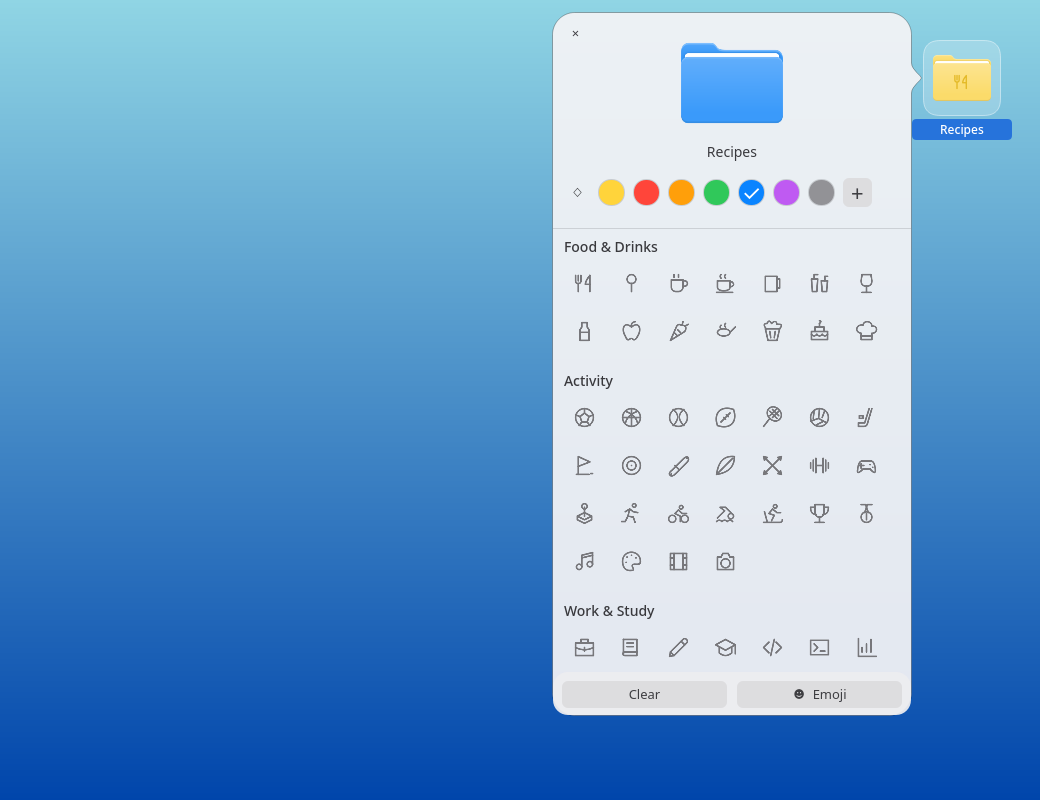
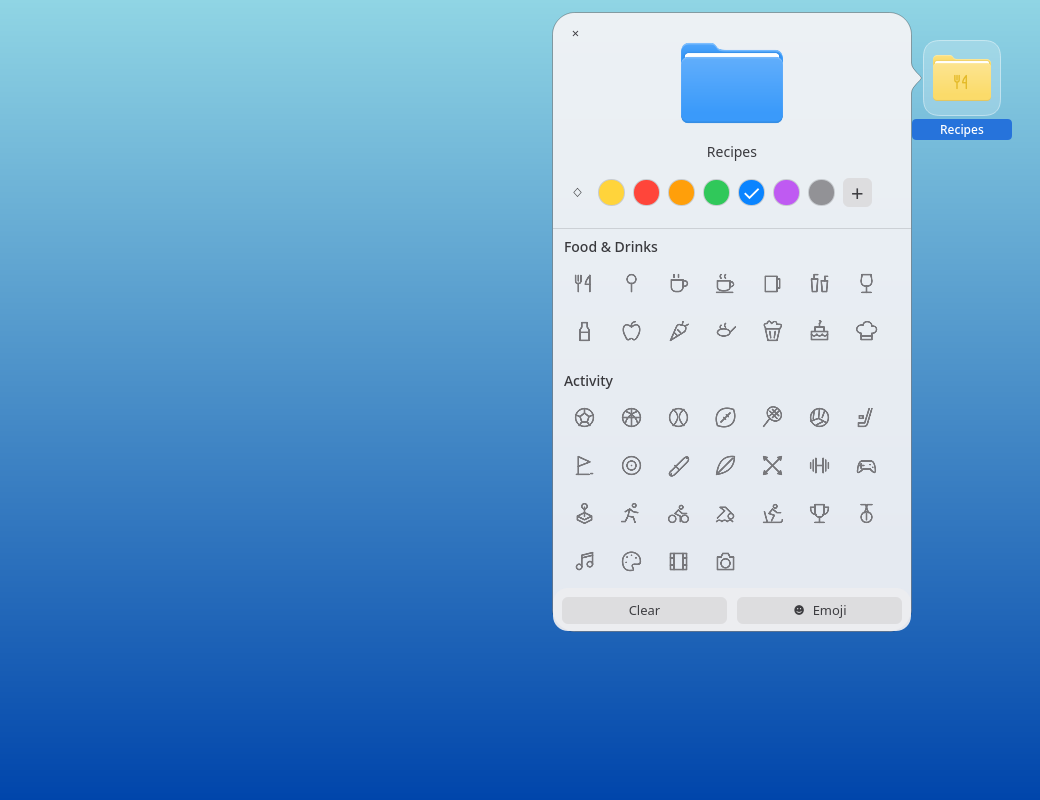
Shorten folder customization panel and keep its footer above the Dock

Changed region(s): [[0.5231, 0.75, 0.8923, 0.9062]]

diff --git a/config/quickshell/MacShell/DesktopSurface.qml b/config/quickshell/MacShell/DesktopSurface.qml
@@ -21,8 +21,11 @@ FocusScope {
     property var originalSelection: []
     property string customizePath: ""
     property rect customizeAnchor: Qt.rect(0, 0, 64, 64)
+    // Match the desktop widget grid's 100px clearance above the Dock.
+    readonly property real customizeAvailableHeight: Math.max(0, height - 100)
+    readonly property real customizeHeight: Math.min(620, customizeAvailableHeight - 24)
     readonly property var customizePlacement: FolderPlacement.beside(customizeAnchor,
-        width, height, 360, Math.min(704, height - 24))
+        width, customizeAvailableHeight, 360, customizeHeight)
 
     function selectedFolder() {
         if (desktop.selected.length !== 1) return null;
@@ -65,14 +68,12 @@ FocusScope {
     }
     function openWidgetMenu(id, x, y) {
         widgetTarget = id;
-        var canXL = widgets.supportsXL(widgets.typeOf(id));
         showMenu([
             { label: "Edit Widgets…", action: "widgets" },
             { separator: true },
             { label: "Small", action: "small" },
             { label: "Medium", action: "medium" },
             { label: "Large", action: "large" },
-            { label: "Extra Large", action: "xl", enabled: canXL },
             { separator: true },
             { label: "Remove Widget", action: "removeWidget" }
         ], x, y);
@@ -211,7 +212,7 @@ FocusScope {
             else if (action === "customize") surface.customizeFolder();
             else if (action.indexOf("folderColor:") === 0 && surface.selectedFolder()) surface.desktop.send({ action: "customize", name: surface.selectedFolder().name, color: action.slice(12) });
             else if (action === "removeWidget") surface.widgets.removeWidget(surface.widgetTarget);
-            else if (action === "small" || action === "medium" || action === "large" || action === "xl") surface.widgets.setSize(surface.widgetTarget, action);
+            else if (action === "small" || action === "medium" || action === "large") surface.widgets.setSize(surface.widgetTarget, action);
             else if (action === "wallpaper" && surface.widgets.hub) surface.widgets.hub.openSettings("wallpaper");
         }
     }
@@ -236,7 +237,7 @@ FocusScope {
             folderPath: surface.customizePath
             dark: surface.dark
             fontFamily: surface.fam
-            height: Math.min(704, surface.height - 24)
+            height: surface.customizeHeight
             pointerY: surface.customizePlacement.pointerY
             tailOnLeft: surface.customizePlacement.tailOnLeft
             availableWidth: surface.width - customizer.x - 12

diff --git a/config/quickshell/folder-customizer/tests/DesktopFolderTests.qml b/config/quickshell/folder-customizer/tests/DesktopFolderTests.qml
@@ -94,6 +94,8 @@ Window {
             compare(loader.item.symbols.length, 71);
             verify(loader.x >= 0 && loader.x + loader.width <= surface.width);
             verify(loader.y >= 0 && loader.y + loader.height <= surface.height);
+            verify(loader.height <= 620);
+            verify(loader.y + loader.height <= surface.height - 112);
             // The menu is clamped left of this icon. Its position must not
             // create a large gap between the customizer and the folder.
             compare(loader.item.tailOnLeft, false);
@@ -109,14 +111,14 @@ Window {
             compare(loader.active, false);
         }
         function test_05_left_edge_flips_tail_and_bottom_edge_tracks_folder() {
-            desktop.items = [Object.assign({}, desktop.items[0], { x: 16, y: 680 })];
+            desktop.items = [Object.assign({}, desktop.items[0], { x: 16, y: 580 })];
             surface.customizeFolder();
             const loader = findChild(surface, "folderCustomizerLoader");
             tryVerify(function() { return loader.item && loader.item.ready; }, 5000);
             compare(loader.item.tailOnLeft, true);
             compare(loader.x - 10 - (desktop.items[0].x + 84), 8);
             compare(loader.y + loader.item.pointerY, desktop.items[0].y + 38);
-            verify(loader.y + loader.height <= surface.height - 12);
+            verify(loader.y + loader.height <= surface.height - 112);
             const dir = Quickshell.env("MACSHELL_PREVIEW_DIR");
             if (dir) {
                 let done = false;

diff --git a/config/quickshell/folder-customizer/shell.qml b/config/quickshell/folder-customizer/shell.qml
@@ -23,14 +23,14 @@ ShellRoot {
     Window {
         id: window
         title: "MacShell Customize Folder"
-        width: 432; height: Screen.height > 0 ? Math.min(746, Screen.height - 40) : 746
+        width: 432; height: Screen.height > 0 ? Math.min(662, Screen.height - 140) : 662
         color: "transparent"
         flags: Qt.Window | Qt.FramelessWindowHint
         visible: true
         onClosing: Qt.quit()
         FolderCustomizer {
             x: 20; y: 20
-            height: Math.min(704, window.height - 40)
+            height: Math.min(620, window.height - 40)
             folderPath: Quickshell.env("MACSHELL_CUSTOMIZE_FOLDER")
             dark: app.dark
             fontFamily: app.fontFamily

diff --git a/config/quickshell/folder-customizer/FolderCustomizer.qml b/config/quickshell/folder-customizer/FolderCustomizer.qml
@@ -45,7 +45,7 @@ FocusScope {
     signal changed()
     signal stateLoaded()
     width: 360
-    height: 704
+    height: 620
     focus: true
 
     function settings() { return { color: colorValue, symbol: symbolValue, emoji: emojiValue }; }

diff --git a/docs/FOLDER-CUSTOMIZATION.md b/docs/FOLDER-CUSTOMIZATION.md
@@ -18,6 +18,9 @@ The pointer and panel use one continuous outline with the Dock tooltip's curve.
 On the desktop the popover anchors to the selected folder image, with an 8px
 gap from its pointer. It flips sides near the left edge and keeps the pointer
 aligned vertically when the panel is clamped inside the screen.
+The panel is 620px tall and reserves 100px at the bottom of the desktop for the
+Dock. Shorter screens reduce the panel height further; the symbol list scrolls
+while Clear and Emoji stay in the footer above the Dock.
 Folder artwork uses the bundled [MacTahoe SVG](../icons/MacTahoe/places/scalable/folder.svg),
 under its [existing license](../icons/MacTahoe/COPYING), with original symbol
 pictograms. Emoji use the installed Noto Color Emoji font, and their drawing
